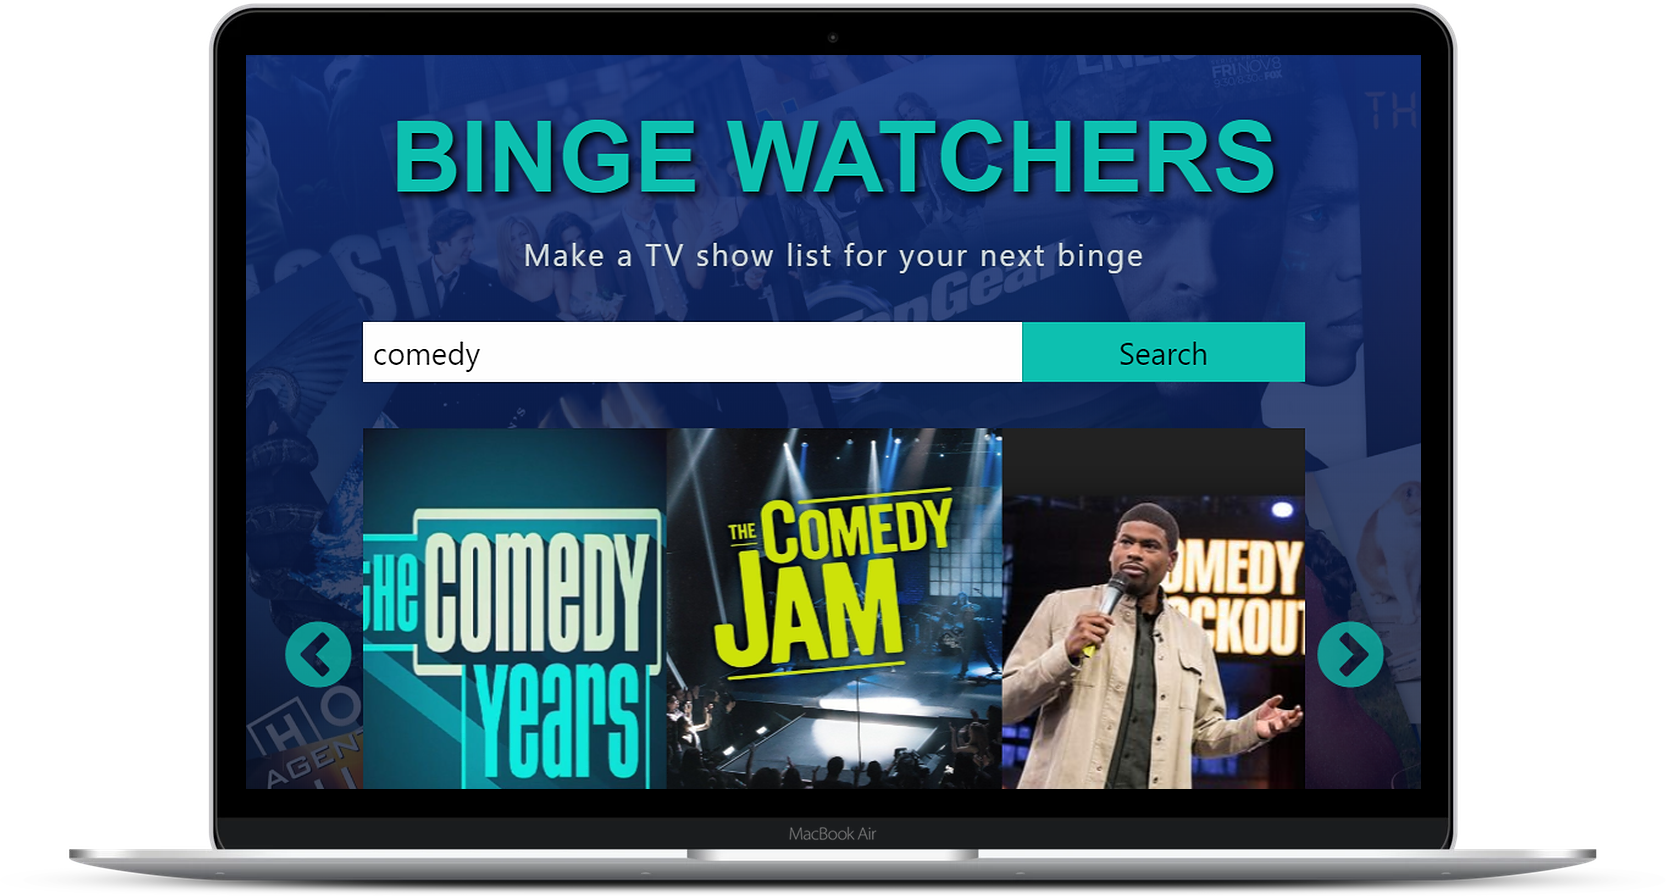
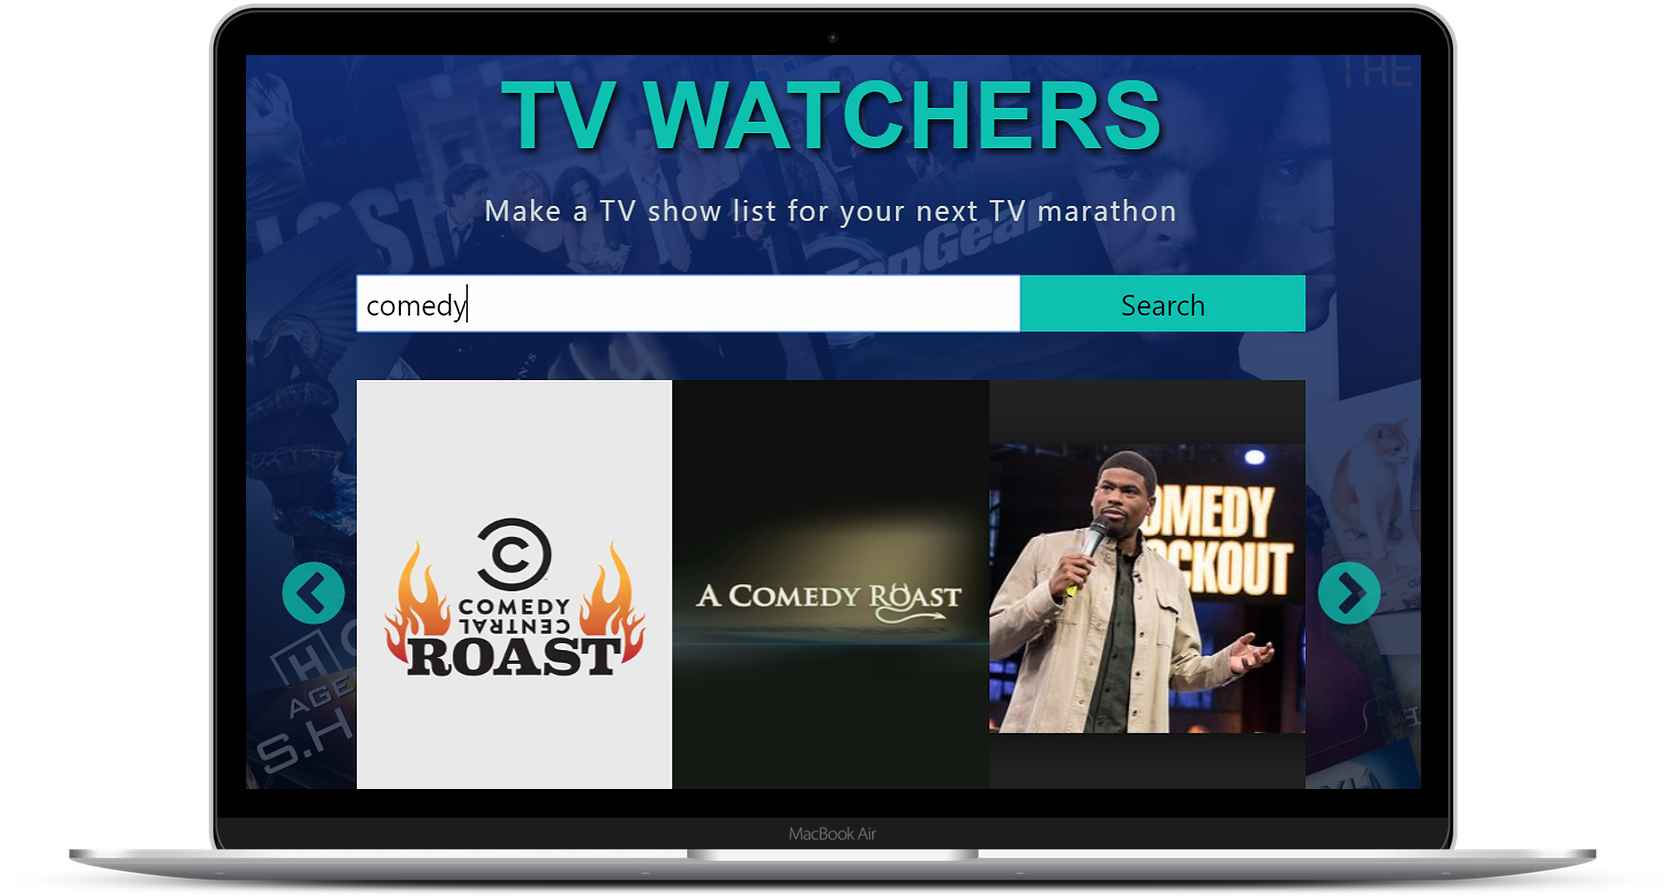
about section filled out

diff --git a/index.html b/index.html
@@ -4,7 +4,7 @@
     <meta charset="UTF-8">
     <meta name="viewport" content="width=device-width, initial-scale=1.0">
     <meta http-equiv="X-UA-Compatible" content="ie=edge">
-    <title>Jeff Yeung's Incredible Portfolio</title>
+    <title>Jeff Yeung</title>
 
     <link rel="stylesheet" href="https://unpkg.com/aos@next/dist/aos.css" />
     <link rel="stylesheet"
@@ -52,7 +52,6 @@
                             <i class="fab fa-github"></i>
                         </a>
                     </div>
-                    <!-- <button>Hire Me</button> -->
                 </div>
             </div>
         </div>
@@ -69,8 +68,10 @@
                     <div class="aboutTextContainer">
                         <div class="aboutTextContent" data-aos="fade-up" data-aos-easing="ease-in">
                             <h2>about me</h2>
-                            <p>Hi, my name's Jeff. I'm a web developer from Toronto. I'm a very curious person and I love that this industry allows me to explore my creativity. To me, there's nothing more satisfying than solving a complex problem. Coding provides unique challenges everyday and I strive to push my skills to their limits.</p>
-                            <p>I love exploring new places while seeking inspiration for my next project!</p>
+                            <p>Hi my name's Jeff. I am a web developer that strives to write clean and concise code. Being a very curious person, I push myself to tackle the most ambitious projects. Coding provides unique challenges everyday, and to me, there's nothing more satisfying than
+                            overcoming a complex puzzle.</p>
+                            <p>I love the creativity aspect of this industry since it's so fulfilling to see my ideas come to life. I also relish every opportunity to share my knowledge, and while I enjoy working alone, I'm at my best collaborating with others.</p>
+                            <p>I'm a passionate adventurer, so if I'm not coding, I'm exploring new places while seeking inspiration for my next project!</p>
                             <a href="">Download Resume</a>
                         </div>
                     </div>
@@ -157,7 +158,7 @@
                     </div>
                     <div class="projectDescription" data-aos="fade-up" data-aos-easing="ease-in">
                         <div class="projectDescriptionText">
-                            <h3>Binge Watchers</h3>
+                            <h3>Tv Watchers</h3>
                             <p>Create a list of tv shows to watch, and vote on other users' lists. See how your votes affect the ranking of their lists! This app was created with React in collaboration with three other amazing developers!</p>
                             <div class="portfolioIcons">
                                 <i class="devicon-html5-plain-wordmark htmlIcon"></i>
@@ -166,8 +167,8 @@
                                 <i class="devicon-react-original-wordmark reactIcon"></i>
                             </div>
                             <div class="portfolioButtons">
-                                <a href="https://superduperlatives.github.io/BingeWatcher/" target="_blank">view live</a>
-                                <a href="https://github.com/superduperlatives/BingeWatcher" target="_blank">github</a>
+                                <a href="https://superduperlatives.github.io/tvWatcher/" target="_blank">view live</a>
+                                <a href="https://github.com/superduperlatives/tvWatcher" target="_blank">github</a>
                             </div>
                         </div>
                     </div>
@@ -254,6 +255,9 @@
             </div>
         </section>
     </main>
+    <footer>
+        <p>By Jeff Yeung | Photo credits: <a href="https://www.tommycodes.ca" target="_blank">Tommy Lay</a> & Pam Lau</p>
+    </footer>
     <script src="https://unpkg.com/aos@next/dist/aos.js"></script>
     <script>
         AOS.init();

diff --git a/styles/style.css b/styles/style.css
@@ -1175,3 +1175,23 @@ textarea::placeholder {
     font-size: 2.5rem;
   }
 }
+
+footer {
+  display: -webkit-box;
+  display: -ms-flexbox;
+  display: flex;
+  -webkit-box-pack: center;
+      -ms-flex-pack: center;
+          justify-content: center;
+  width: 100%;
+  padding: 1% 0;
+  background-color: #000;
+}
+
+footer p {
+  color: #f1f1f1;
+}
+
+footer a {
+  color: #f58c3a;
+}

diff --git a/styles/sass/_footer.scss b/styles/sass/_footer.scss
@@ -1,0 +1,18 @@
+footer {
+    display: flex;
+    justify-content: center;
+    width: 100%;
+    padding: 1% 0;
+    // border: 2px solid coral;
+    background-color: $primary-color; 
+
+    p {
+        color: $tertiary-color;
+        // border-top: 2px solid $tertiary-color;
+        // padding: 2% 0;
+    }
+
+    a {
+        color: $accent-color;
+    }
+}

diff --git a/styles/sass/_about.scss b/styles/sass/_about.scss
@@ -52,14 +52,6 @@
         margin: 2% 0;
     }
 
-    // button {
-    //     width: 35%;
-    //     margin-top: 5%;
-    //     border: none;
-    //     padding: 15px 0;
-    //     background-color: $primary-color;
-    //     color: $secondary-color;
-    // }
 
     a {
         color: $secondary-color;

diff --git a/styles/sass/style.scss b/styles/sass/style.scss
@@ -5,3 +5,4 @@
 @import 'skills';
 @import 'portfolio';
 @import 'contact';
+@import 'footer';
